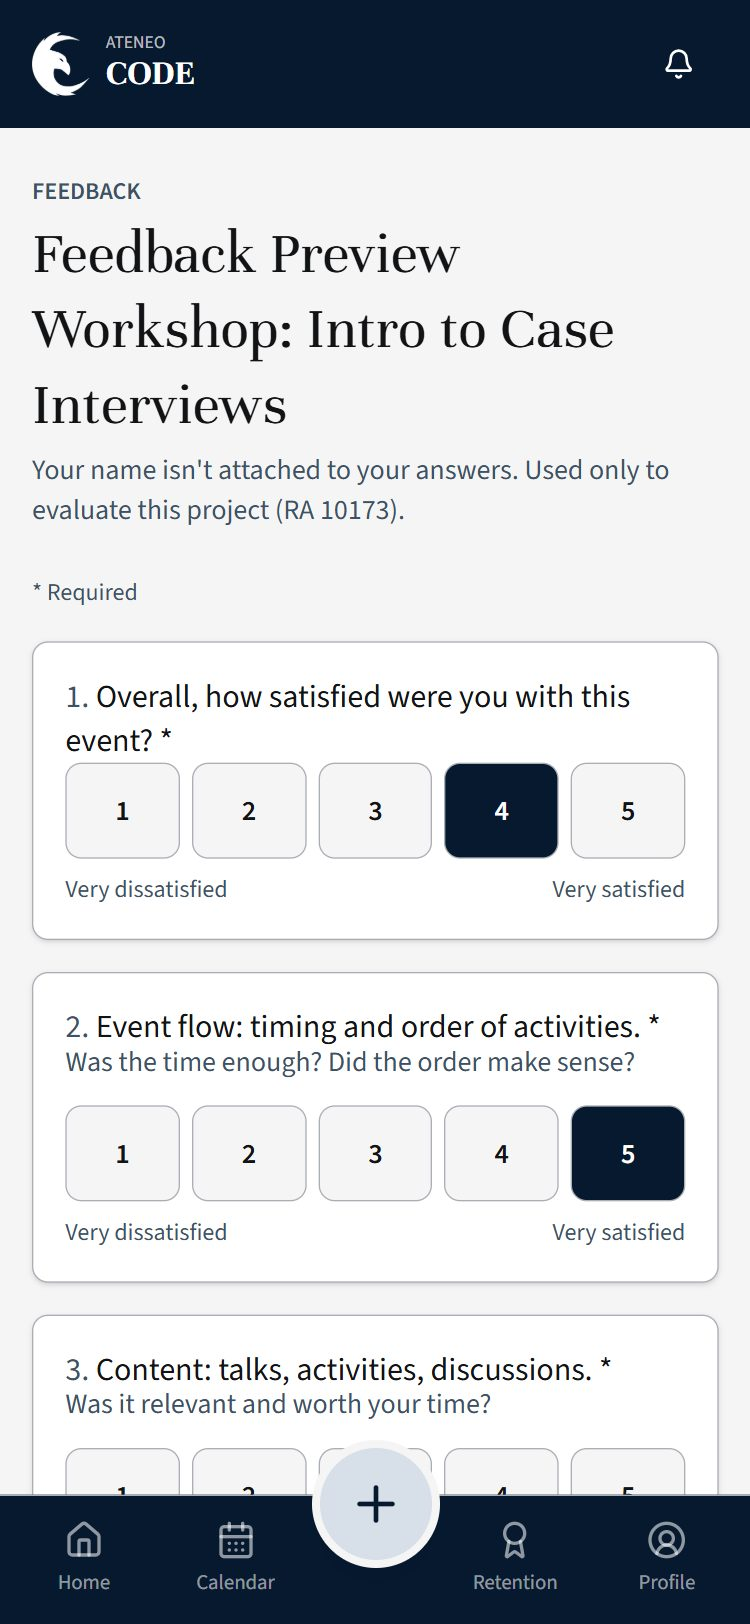
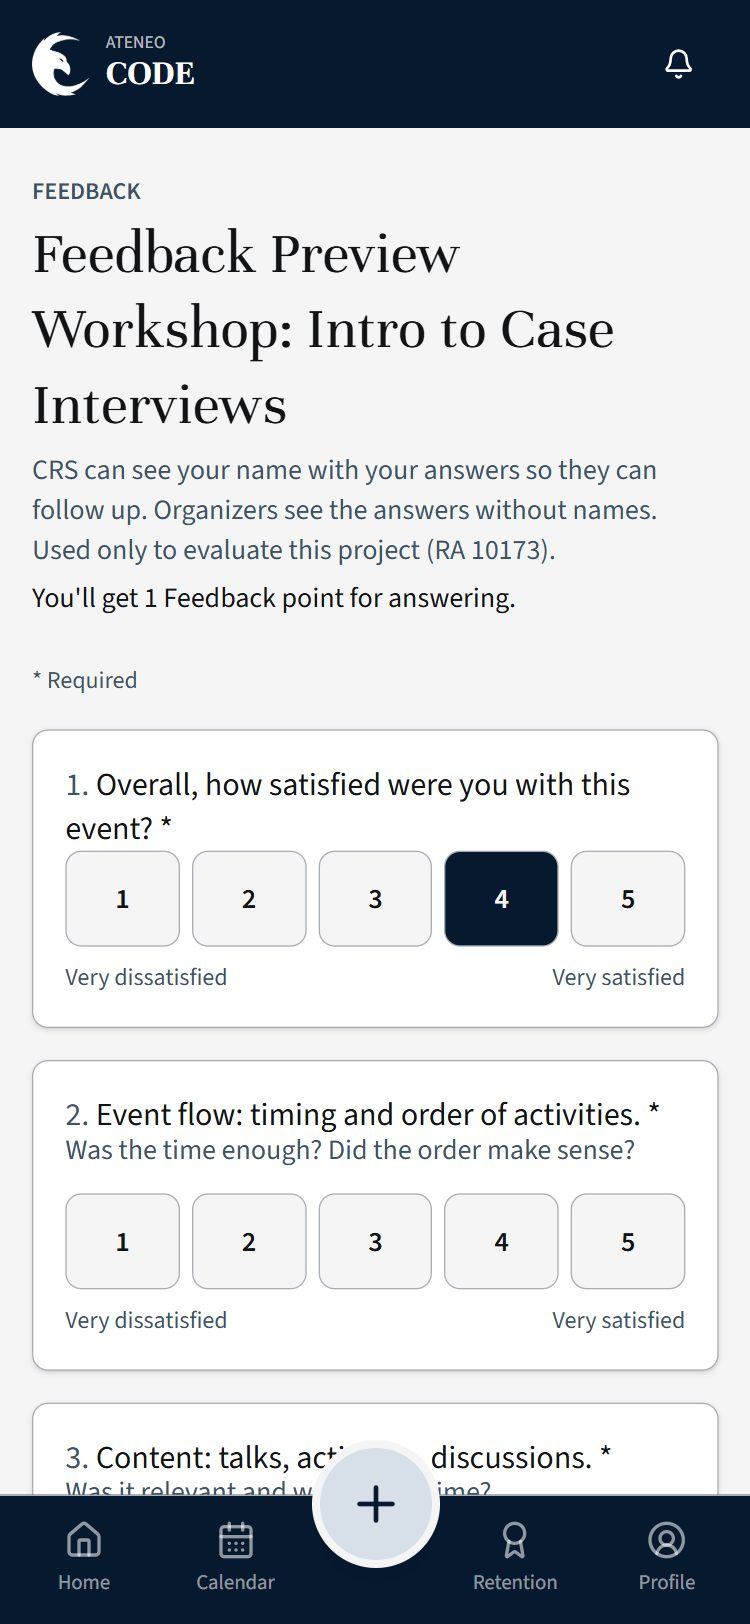
docs(guides): reshoot the feedback form and Send panel for points and names

diff --git a/src/lib/guides/content.ts b/src/lib/guides/content.ts
@@ -156,12 +156,13 @@ export const GUIDES: Guide[] = [
 				body: "Tap a number from 1 to 5 for each rating question. Questions marked * need an answer.",
 				image: {
 					src: "/guides/give-feedback/3.jpg",
-					alt: "Feedback form with 1 to 5 rating buttons under each question.",
+					alt: "Feedback form with a note on who sees your name, the points for answering, and 1 to 5 rating buttons.",
 					device: "phone",
 					callouts: [
-						{ x: 59.5, y: 31.4, label: "CRS sees your name with your answers. Organizers don't." },
-						{ x: 23.5, y: 36.5, label: "* means the question needs an answer" },
-						{ x: 59.5, y: 47.2, label: "Tap a number. Your pick turns dark." },
+						{ x: 93, y: 31.4, label: "CRS sees your name with your answers. Organizers don't." },
+						{ x: 75, y: 36.8, label: "How many points answering gives you" },
+						{ x: 23.5, y: 41.9, label: "* means the question needs an answer" },
+						{ x: 59.5, y: 52.6, label: "Tap a number. Your pick turns dark." },
 					],
 				},
 				tip: "Feedback is voluntary. If the form gives points for answering, it says how many. You get them whatever you answer.",
@@ -449,9 +450,9 @@ export const GUIDES: Guide[] = [
 					alt: "The Send panel with the Who to invite choices, the options and the closing time.",
 					device: "desktop",
 					callouts: [
-						{ x: 52.5, y: 40.2, label: "Who can be invited" },
-						{ x: 62.5, y: 48.2, label: "Suggested: a random sample" },
-						{ x: 42.5, y: 57.4, label: "Or everyone, or a number you choose" },
+						{ x: 52.5, y: 30.9, label: "Who can be invited" },
+						{ x: 62.5, y: 38.9, label: "Suggested: a random sample" },
+						{ x: 42.5, y: 48.2, label: "Or everyone, or a number you choose" },
 					],
 				},
 			},
@@ -460,10 +461,11 @@ export const GUIDES: Guide[] = [
 				body: "Under Options, choose whether other attendees can answer from the event page, whether organizers see the results, whether to email invitees, and whether to remind people 24 hours before the form closes. Points for answering sets how many points each person who answers gets, and of which type. 0 turns them off. Set the closing time, then review and tap Send now. Invitees get a notification right away.",
 				image: {
 					src: "/guides/send-form/4.jpg",
-					alt: "The same Send panel, showing the options, the closing time and the Review and send button.",
+					alt: "The same Send panel, showing the options, points for answering, the closing time and the Review and send button.",
 					device: "desktop",
 					callouts: [
-						{ x: 50, y: 70.6, label: "Options: who else can answer, sharing, reminders, points" },
+						{ x: 51, y: 59.4, label: "Options: who else can answer, sharing, reminders" },
+						{ x: 53.5, y: 70.7, label: "Points for answering, and which kind" },
 						{ x: 50, y: 84.4, label: "When the form closes" },
 						{ x: 47.5, y: 91.9, label: "Review and send, or Preview first" },
 					],
